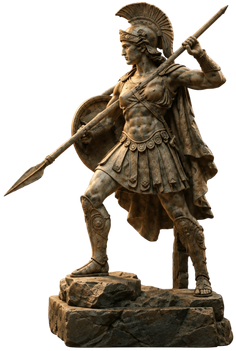
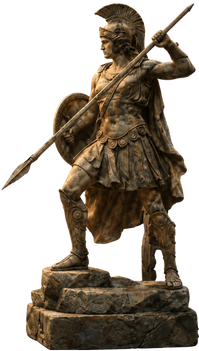
Updated hero soldier

diff --git a/components/Hero.tsx b/components/Hero.tsx
@@ -175,10 +175,162 @@ export default function Hero() {
           );
       });
 
+      // ===================================
+      // TABLET TIMELINE (640px to 1023px)
+      // ===================================
+      mm.add("(min-width: 640px) and (max-width: 1023px)", () => {
+        gsap.set(heroContentRef.current, {
+          scale: 1,
+          opacity: 1,
+          filter: "blur(0px)",
+        });
+
+        gsap.set(leftSoldierRef.current, {
+          xPercent: 0,
+          opacity: 1,
+          scale: 1,
+        });
+
+        gsap.set(rightSoldierRef.current, {
+          xPercent: 0,
+          opacity: 1,
+          scale: 1,
+        });
+
+        gsap.set(wheelWrapperRef.current, {
+          xPercent: -50,
+          yPercent: -50,
+          scale: 1,
+          opacity: 1,
+        });
+
+        gsap.set(bgRef.current, {
+          scale: 1,
+          opacity: 1,
+        });
+
+        gsap.set(blackFogRef.current, {
+          opacity: 0,
+        });
+
+        gsap.set(aboutContentRef.current, {
+          opacity: 0,
+          scale: 0.85,
+          y: 40,
+          filter: "blur(12px)",
+        });
+
+        const tabletTimeline = gsap.timeline({
+          scrollTrigger: {
+            trigger: sectionRef.current,
+            start: "top top",
+            end: "+=180%",
+            pin: true,
+            scrub: 1,
+          },
+        });
+
+        tabletTimeline
+          // PHASE 1: Hero text zooms out, fog builds, soldiers soften
+          .to(
+            heroContentRef.current,
+            {
+              scale: 4.2,
+              opacity: 0,
+              filter: "blur(20px)",
+              ease: "power2.in",
+            },
+            0,
+          )
+          .to(
+            blackFogRef.current,
+            {
+              opacity: 0.20,
+              ease: "power1.inOut",
+            },
+            0,
+          )
+          .to(
+            bgRef.current,
+            {
+              scale: 1.18,
+              opacity: 1,
+              ease: "power1.out",
+            },
+            0,
+          )
+          .to(
+            wheelWrapperRef.current,
+            {
+              scale: 1.15,
+              opacity: 0.35,
+              ease: "power1.out",
+            },
+            0,
+          )
+          .to(
+            leftSoldierRef.current,
+            {
+              opacity: 0.75,
+              scale: 0.95,
+              ease: "power1.out",
+            },
+            0,
+          )
+          .to(
+            rightSoldierRef.current,
+            {
+              opacity: 0.75,
+              scale: 0.95,
+              ease: "power1.out",
+            },
+            0,
+          )
+
+          // PHASE 2: About DevHost emerges with soldiers stepping outward on tablet (-18% / 18%)
+          .to(
+            aboutContentRef.current,
+            {
+              opacity: 1,
+              scale: 1,
+              y: 0,
+              filter: "blur(0px)",
+              ease: "power2.out",
+            },
+            0.35,
+          )
+          .to(
+            leftSoldierRef.current,
+            {
+              xPercent: -18,
+              opacity: 0.7,
+              ease: "power2.out",
+            },
+            0.35,
+          )
+          .to(
+            rightSoldierRef.current,
+            {
+              xPercent: 18,
+              opacity: 0.7,
+              ease: "power2.out",
+            },
+            0.35,
+          )
+          .to(
+            aboutContentRef.current,
+            {
+              opacity: 1,
+              scale: 1,
+            },
+            1.0,
+          );
+      });
+
       // =========================
-      // DESKTOP TIMELINE (>= 640px)
+      // DESKTOP TIMELINE (>= 1024px)
       // =========================
-      mm.add("(min-width: 640px)", () => {
+      mm.add("(min-width: 1024px)", () => {
         gsap.set(heroContentRef.current, {
           scale: 1,
           opacity: 1,
@@ -245,7 +397,7 @@ export default function Hero() {
           .to(
             blackFogRef.current,
             {
-              opacity: 0.45,
+              opacity: 0.20,
               ease: "power1.inOut",
             },
             0,
@@ -254,7 +406,7 @@ export default function Hero() {
             bgRef.current,
             {
               scale: 1.18,
-              opacity: 0.95,
+              opacity: 1,
               ease: "power1.out",
             },
             0,
@@ -364,14 +516,14 @@ export default function Hero() {
         className="pointer-events-none absolute inset-0 z-10 h-full w-full bg-[#050403]"
         style={{
           background:
-            "radial-gradient(ellipse at center, rgba(5,4,3,0.85) 0%, #050403 85%)",
+            "radial-gradient(ellipse at center, rgba(5,4,3,0.55) 0%, rgba(5,4,3,0.92) 85%)",
         }}
       />
 
       {/* ROTATING RUNE WHEEL */}
       <div
         ref={wheelWrapperRef}
-        className="pointer-events-none absolute top-1/2 left-1/2 z-[2] aspect-square w-[min(78vw,260px)] sm:w-[min(85vw,620px)]"
+        className="pointer-events-none absolute top-1/2 left-1/2 z-[2] aspect-square w-[min(78vw,260px)] sm:w-[min(70vw,380px)] md:w-[min(65vw,480px)] lg:w-[min(85vw,620px)]"
       >
         <div className="h-full w-full animate-[spin_35s_linear_infinite]">
           <Image
@@ -388,16 +540,16 @@ export default function Hero() {
       {/* LEFT SOLDIER */}
       <div
         ref={leftSoldierRef}
-        className="pointer-events-none absolute bottom-0 left-[-4%] z-[12] w-[min(46vw,190px)] sm:left-[-2%] sm:w-[min(36vw,540px)] lg:left-0 lg:w-[min(34vw,310px)]"
+        className="pointer-events-none absolute bottom-0 left-[-4%] z-[12] w-[min(46vw,190px)] sm:left-0 sm:w-auto"
       >
         {/* DESKTOP SOLDIER LEFT */}
         <Image
           src="/soldier-left.png"
           alt=""
           width={500}
-          height={400}
+          height={600}
           priority
-          className="hidden h-auto w-full object-contain sm:block"
+          className="hidden h-[min(80vh,540px)] w-auto object-contain object-bottom sm:block"
         />
         {/* MOBILE SOLDIER LEFT */}
         <Image
@@ -413,7 +565,7 @@ export default function Hero() {
       {/* RIGHT SOLDIER */}
       <div
         ref={rightSoldierRef}
-        className="pointer-events-none absolute right-[-4%] bottom-0 z-[12] w-[min(46vw,340px)] sm:right-[-2%] sm:w-[min(36vw,540px)] lg:right-[-90px] lg:w-[min(34vw,560px)]"
+        className="pointer-events-none absolute right-[-8%] bottom-0 z-[12] w-[min(46vw,340px)] sm:right-0 sm:w-auto"
       >
         {/* DESKTOP SOLDIER RIGHT */}
         <Image
@@ -422,7 +574,7 @@ export default function Hero() {
           width={500}
           height={600}
           priority
-          className="hidden h-135 w-full object-contain sm:block"
+          className="hidden h-[min(80vh,540px)] w-auto object-contain object-bottom sm:block"
         />
         {/* MOBILE SOLDIER RIGHT */}
         <Image
@@ -441,14 +593,14 @@ export default function Hero() {
         className="relative z-20 flex flex-col items-center justify-center px-4 text-center max-sm:-translate-y-10 sm:px-6"
       >
         {/* LOGOS ABOVE TITLE */}
-        <div className="relative z-10 mb-2 flex items-center justify-center gap-2 sm:mb-4 sm:gap-5">
+        <div className="relative z-10 mb-2 flex items-center justify-center gap-2 sm:mb-3 sm:gap-3 md:mb-4 md:gap-4 lg:gap-5">
           <Image
             src="/sosc_logo.svg"
             alt="SOSC"
             width={70}
             height={70}
             priority
-            className="h-auto w-10 sm:w-14 lg:w-16"
+            className="h-auto w-10 sm:w-12 md:w-14 lg:w-16"
           />
           <Image
             src="/synergia_logo.svg"
@@ -456,7 +608,7 @@ export default function Hero() {
             width={150}
             height={70}
             priority
-            className="h-auto w-16 sm:w-24 lg:w-28"
+            className="h-auto w-16 sm:w-20 md:w-24 lg:w-28"
           />
           <Image
             src="/sahyadri-logo.png"
@@ -464,7 +616,7 @@ export default function Hero() {
             width={90}
             height={90}
             priority
-            className="h-auto w-10 sm:w-14 lg:w-16"
+            className="h-auto w-10 sm:w-12 md:w-14 lg:w-16"
           />
         </div>
 
@@ -490,12 +642,12 @@ export default function Hero() {
             width={390}
             height={200}
             priority
-            className="mb-4 h-34 w-auto sm:mb-6 sm:h-49"
+            className="mb-4 h-34 w-auto sm:mb-5 sm:h-40 md:mb-6 md:h-44 lg:h-49"
           />
         </div>
 
         {/* TAGLINE */}
-        <p className="font-norse-bold relative z-10 text-base tracking-wider text-white sm:text-2xl sm:tracking-widest">
+        <p className="font-norse-bold relative z-10 text-base tracking-wider text-white sm:text-lg md:text-xl lg:text-2xl sm:tracking-widest">
           Ideas that Echo Through Time
         </p>
       </div>
@@ -509,22 +661,22 @@ export default function Hero() {
         <div className="mx-auto w-[90%] max-w-4xl text-center">
           {/* TITLE */}
           <div className="relative mb-4 text-center sm:mb-6">
-            <h2 className="font-norse-bold mb-2 text-6xl font-extrabold tracking-[0.12em] uppercase md:text-8xl">
+            <h2 className="font-norse-bold mb-2 text-5xl font-extrabold tracking-[0.12em] uppercase sm:text-6xl md:text-7xl lg:text-8xl">
               <span className="bg-gradient-to-r from-[#F6CC60] via-[#FFF5D0] to-[#C9963E] bg-clip-text text-transparent drop-shadow-[0_2px_10px_rgba(246,204,96,0.3)]">
                 {devhostData.title}
               </span>
             </h2>
 
             {/* CAPTION */}
-            <h3 className="font-norse text-lg font-semibold tracking-[0.10em] text-[#C8A24C]/80 sm:tracking-[0.14em] md:text-2xl">
+            <h3 className="font-norse text-base font-semibold tracking-[0.10em] text-[#C8A24C]/80 sm:text-lg sm:tracking-[0.14em] md:text-xl lg:text-2xl">
               {devhostData.caption}
             </h3>
           </div>
 
           {/* DESCRIPTION */}
-          <div className="relative mx-auto w-full text-justify sm:max-w-[80%]">
+          <div className="relative mx-auto w-full text-justify sm:max-w-[85%] md:max-w-[80%]">
             <p
-              className="font-lora text-justify text-base leading-relaxed tracking-[0.02em] break-words text-white sm:text-lg sm:leading-[1.75] sm:tracking-[0.03em]"
+              className="font-lora text-justify text-sm leading-relaxed tracking-[0.02em] break-words text-white sm:text-base md:text-lg sm:leading-[1.75] sm:tracking-[0.03em]"
               style={{
                 textShadow:
                   "0 1px 1px rgba(0,0,0,.7), 0 0 12px rgba(246,204,96,.08)",
